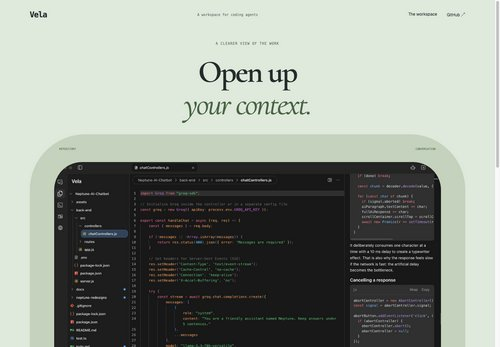
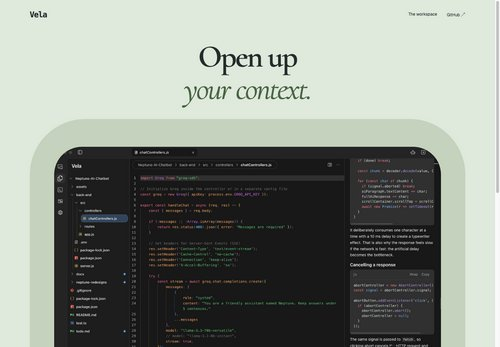
design: remove decorative metadata from release previews

diff --git a/design/vela-product/index.html b/design/vela-product/index.html
@@ -7,51 +7,48 @@
   <title>Vela — Your code. Your workspace.</title>
   <link rel="icon" href="assets/icon.png">
   <link rel="stylesheet" href="styles.css">
+  <link rel="stylesheet" href="release.css">
 </head>
 <body class="design-1">
   <div class="atmosphere" aria-hidden="true"><i></i><i></i><i></i><i></i></div>
   <header>
     <a class="brand" href="#" aria-label="Vela home"><img src="assets/icon.png" alt="" width="36" height="36"><span>Vela</span></a>
-    <span class="header-note">A workspace for coding agents</span>
     <a class="header-github" href="https://github.com/Tsohnle95/vela" target="_blank" rel="noopener">GitHub <span aria-hidden="true">↗</span></a>
   </header>
   <main>
     <section class="hero" aria-labelledby="headline">
-      <div class="eyebrow"><span></span><span id="eyebrow">Vela for macOS</span></div>
+      <div class="release-brand-art" aria-hidden="true"></div>
       <h1 id="headline">Your code.<br><em>Your workspace.</em></h1>
       <p class="description" id="description">Your editor, AI agents, terminal, and live diffs.<br>One desktop app. Powered by OpenCode.</p>
       <div class="actions">
         <a class="download" href="https://github.com/Tsohnle95/vela/releases" target="_blank" rel="noopener"><svg width="18" height="18" viewBox="0 0 24 24" fill="none" stroke="currentColor" stroke-width="1.7" aria-hidden="true"><path d="M12 3v12m-5-5 5 5 5-5M5 16v5h14v-5"/></svg><span>Download for macOS</span></a>
         <a class="source" href="https://github.com/Tsohnle95/vela" target="_blank" rel="noopener"><svg width="19" height="19" viewBox="0 0 24 24" fill="currentColor" aria-hidden="true"><path d="M12 2a10 10 0 0 0-3.16 19.49c.5.09.68-.22.68-.48v-1.87c-2.78.6-3.37-1.18-3.37-1.18-.46-1.16-1.11-1.47-1.11-1.47-.91-.62.07-.61.07-.61 1 .07 1.53 1.03 1.53 1.03.89 1.53 2.34 1.09 2.91.83.09-.65.35-1.09.64-1.34-2.22-.25-4.55-1.11-4.55-4.94 0-1.09.39-1.98 1.03-2.68-.1-.25-.45-1.27.1-2.65 0 0 .84-.27 2.75 1.03A9.6 9.6 0 0 1 12 6.82c.85 0 1.71.11 2.51.34 1.91-1.3 2.75-1.03 2.75-1.03.55 1.38.2 2.4.1 2.65.64.7 1.03 1.59 1.03 2.68 0 3.84-2.34 4.69-4.57 4.94.36.31.68.92.68 1.85v2.76c0 .27.18.58.69.48A10 10 0 0 0 12 2Z"/></svg><span>View on GitHub</span><span aria-hidden="true">↗</span></a>
       </div>
-      <p class="platform">macOS <span>·</span> OpenCode V2</p>
     </section>
     <section class="product" aria-label="Vela desktop app">
-      <div class="screen-meta"><span>YOUR WORKSPACE, IN VIEW</span><span>EDITOR / AGENT / TERMINAL</span></div>
       <div class="screen"><img src="assets/vela.png" alt="Vela showing the Neptune repository, JavaScript in the editor, and an OpenCode agent conversation side by side." width="1420" height="887" fetchpriority="high"></div>
-      <div class="screen-caption"><span>Code. Ask. Review. Run.</span><span>Everything in one window.</span></div>
     </section>
-    <section class="details" aria-label="Workspace features"><div><span>01</span><h2>Edit your code.</h2><p>Monaco, tabs, and autosave.</p></div><div><span>02</span><h2>Work with agents.</h2><p>OpenCode sessions, side by side.</p></div><div><span>03</span><h2>Review the changes.</h2><p>Live file changes and per-file diffs.</p></div></section>
+    <section class="details" aria-label="Workspace features"><div><h2>Edit your code.</h2><p>Monaco, tabs, and autosave.</p></div><div><h2>Work with agents.</h2><p>OpenCode sessions, side by side.</p></div><div><h2>Review the changes.</h2><p>Live file changes and per-file diffs.</p></div></section>
     <div class="product-information">
       <section class="capabilities" aria-labelledby="capabilities-title">
-        <div class="section-heading"><span class="section-label">01 / THE WORKSPACE</span><h2 id="capabilities-title">Your tools, in context.</h2><p>Open a repository and keep the files, conversation, and changes in the same window.</p></div>
+        <div class="section-heading"><h2 id="capabilities-title">Your tools, in context.</h2><p>Open a repository and keep the files, conversation, and changes in the same window.</p></div>
         <div class="capability-list">
-          <article><span class="feature-number">01</span><div><h3>An editor you can work in.</h3><p>Browse the file tree and edit with Monaco. Tabs and autosave keep your files close while you work with an agent.</p><div class="feature-tags"><span>Monaco editor</span><span>File explorer</span><span>Autosave</span></div></div></article>
-          <article><span class="feature-number">02</span><div><h3>Give your agent the context.</h3><p>Choose your model and agent, attach files, or reference workspace files with <code>@</code>. Follow streamed responses, reasoning, and tool calls. Queue a follow-up while the current task is running.</p><div class="feature-tags"><span>OpenCode V2</span><span>File attachments</span><span>Queued follow-ups</span></div></div></article>
-          <article><span class="feature-number">03</span><div><h3>Work on more than one task.</h3><p>Agent mode tiles up to eight sessions in one workspace. Each panel keeps its own conversation and context, so you can follow separate tasks side by side.</p><div class="feature-tags"><span>Up to 8 sessions</span><span>Independent context</span></div></div></article>
-          <article><span class="feature-number">04</span><div><h3>See what actually changed.</h3><p>Vela watches your workspace and lists files touched during the session. Review a per-file diff when starting contents are available. Other changes are marked as observed.</p><div class="feature-tags"><span>Live file changes</span><span>Per-file diffs</span></div></div></article>
+          <article><div><h3>An editor you can work in.</h3><p>Browse the file tree and edit with Monaco. Tabs and autosave keep your files close while you work with an agent.</p></div></article>
+          <article><div><h3>Give your agent the context.</h3><p>Choose your model and agent, attach files, or reference workspace files with <code>@</code>. Follow streamed responses, reasoning, and tool calls. Queue a follow-up while the current task is running.</p></div></article>
+          <article><div><h3>Work on more than one task.</h3><p>Agent mode tiles up to eight sessions in one workspace. Each panel keeps its own conversation and context, so you can follow separate tasks side by side.</p></div></article>
+          <article><div><h3>See what actually changed.</h3><p>Vela watches your workspace and lists files touched during the session. Review a per-file diff when starting contents are available. Other changes are marked as observed.</p></div></article>
         </div>
       </section>
       <section class="workflow" aria-labelledby="workflow-title">
-        <div class="section-heading"><span class="section-label">02 / THE WORKFLOW</span><h2 id="workflow-title">From folder to reviewed change.</h2></div>
-        <ol class="workflow-steps"><li><span>01</span><h3>Open your repository.</h3><p>Choose a folder. Browse the files and open what you’re working on in the editor.</p></li><li><span>02</span><h3>Work with OpenCode.</h3><p>Describe the change, add the relevant files, and follow the session beside your code.</p></li><li><span>03</span><h3>Review it. Run it.</h3><p>Check the changed files, edit the result, and run your project in the integrated terminal.</p></li></ol>
+        <div class="section-heading"><h2 id="workflow-title">From folder to reviewed change.</h2></div>
+        <ol class="workflow-steps"><li><h3>Open your repository.</h3><p>Choose a folder. Browse the files and open what you’re working on in the editor.</p></li><li><h3>Work with OpenCode.</h3><p>Describe the change, add the relevant files, and follow the session beside your code.</p></li><li><h3>Review it. Run it.</h3><p>Check the changed files, edit the result, and run your project in the integrated terminal.</p></li></ol>
       </section>
       <section class="connected-tools" aria-label="Terminal and mobile companion">
-        <article><span class="section-label">IN THE WORKSPACE</span><h3>A terminal, right here.</h3><p>Run commands in the current workspace with the integrated terminal. You can also switch an agent panel to the OpenCode TUI.</p></article>
-        <article><span class="section-label">AWAY FROM THE DESK</span><h3>The same sessions on your phone.</h3><p>Pair the mobile companion from <strong>Settings → Mobile Setup</strong>. Access your sessions while Vela remains open on your desktop.</p></article>
+        <article><h3>A terminal, right here.</h3><p>Run commands in the current workspace with the integrated terminal. You can also switch an agent panel to the OpenCode TUI.</p></article>
+        <article><h3>The same sessions on your phone.</h3><p>Pair the mobile companion from <strong>Settings → Mobile Setup</strong>. Access your sessions while Vela remains open on your desktop.</p></article>
       </section>
       <section class="getting-started" aria-labelledby="setup-title">
-        <div class="section-heading"><span class="section-label">03 / GET STARTED</span><h2 id="setup-title">Bring your repository.<br>Connect OpenCode.</h2><p>Vela runs agent sessions through OpenCode V2. Have <code>opencode</code> available on your PATH before starting a session.</p><a class="setup-link" href="https://github.com/Tsohnle95/vela#setup" target="_blank" rel="noopener">Read the setup guide <span aria-hidden="true">↗</span></a></div>
+        <div class="section-heading"><h2 id="setup-title">Bring your repository.<br>Connect OpenCode.</h2><p>Vela runs agent sessions through OpenCode V2. Have <code>opencode</code> available on your PATH before starting a session.</p><a class="setup-link" href="https://github.com/Tsohnle95/vela#setup" target="_blank" rel="noopener">Read the setup guide <span aria-hidden="true">↗</span></a></div>
         <div class="setup-panel"><div class="setup-panel-title">RUN FROM SOURCE <span>macOS recommended</span></div><pre><code>git clone https://github.com/Tsohnle95/vela.git
 cd vela
 npm install

diff --git a/design/vela-product/design-24/collection.js b/design/vela-product/design-24/collection.js
@@ -7,14 +7,17 @@
   selector.innerHTML = concepts.map((c, i) => `<option value="${i + 1}">${String(i + 1).padStart(2, '0')} — ${c.name}</option>`).join('');
   const requested = Number(new URLSearchParams(location.search).get('version'));
   let current = Number.isInteger(requested) && requested >= 1 && requested <= concepts.length ? requested : 1;
-  const header = () => `<header class="site-header"><a class="wordmark" href="../index.html?design=24" aria-label="Vela — original Source design">Vela</a><span class="header-caption">A workspace for coding agents</span><nav aria-label="Product navigation"><a href="#workspace">The workspace</a><a href="https://github.com/Tsohnle95/vela" target="_blank" rel="noopener">GitHub ↗</a></nav></header>`;
+  const header = () => `<header class="site-header"><a class="wordmark" href="../index.html?design=24" aria-label="Vela — original Source design">Vela</a><nav aria-label="Product navigation"><a href="#workspace">The workspace</a><a href="https://github.com/Tsohnle95/vela" target="_blank" rel="noopener">GitHub ↗</a></nav></header>`;
   function fillCollection() {
-    document.getElementById('collection-grid').innerHTML = concepts.map((c, i) => `<a class="collection-card" href="?version=${i + 1}" data-version="${i + 1}" ${current === i + 1 ? 'aria-current="page"' : ''}><small>${c.motif}</small><img class="collection-preview" src="previews/${String(i + 1).padStart(2, '0')}.jpg" loading="lazy" width="500" height="347" alt=""><h3>${c.name}</h3><p>${c.change}</p></a>`).join('');
+    document.getElementById('collection-grid').innerHTML = concepts.map((c, i) => `<a class="collection-card" href="?version=${i + 1}" data-version="${i + 1}" ${current === i + 1 ? 'aria-current="page"' : ''}><img class="collection-preview" src="previews/${String(i + 1).padStart(2, '0')}.jpg" loading="lazy" width="500" height="347" alt=""><h3>${c.name}</h3></a>`).join('');
   }
   function render(updateHistory = false, focusHeading = false) {
     const c = concepts[current - 1];
     document.body.className = `v${current}`;
-    site.innerHTML = `${header()}<main id="main" tabindex="-1">${c.body()}<section id="workspace-details" class="design-note" aria-label="About this interpretation"><p class="label">SOURCE / ${String(current).padStart(2, '0')}<br>${c.name}</p><details><summary>Design notes — the relationship to #24</summary><p><strong>Reading the original.</strong> ${c.source}</p><p><strong>New direction.</strong> ${c.change}</p><p>Local design exploration. Product images show Vela; diagrams and code headings are illustrative.</p></details></section><footer class="site-footer"><a class="wordmark" href="../index.html?design=24">Vela</a><span>Your code. Your workspace.</span><a href="https://github.com/Tsohnle95/vela#setup" target="_blank" rel="noopener">Setup guide ↗</a></footer></main>`;
+    site.innerHTML = `${header()}<main id="main" tabindex="-1">${c.body()}<footer class="site-footer"><a class="wordmark" href="../index.html?design=24">Vela</a><span>Your code. Your workspace.</span><a href="https://github.com/Tsohnle95/vela#setup" target="_blank" rel="noopener">Setup guide ↗</a></footer></main>`;
+    site.querySelectorAll('.anatomy-rail,.map-stations,.map-root,.patch-summary,.notebook-note,.proof-axis,.dock-waterline>span,.conversation-voices>div>span,.conversation-voices small,.equation-graphic span,.pillar span,.margin,.manual>aside>span,.invitation-seal>span,.declaration-end,.map-coordinate,.desk-inventory,.colophon-meta,.page-number,.corner,.garden-labels,.proof-top,.proof-side,.line-number,.spec-copy>span,.pavilion-base>span,.ledger-total>span,.focus-rails>aside>span:nth-child(2)').forEach(element => element.remove());
+    site.querySelectorAll('.anatomy-rail span,.map-stations span,.manual>aside a').forEach(element => { element.textContent = element.textContent.replace(/^\d+\s*[—/]\s*/, ''); });
+    site.querySelectorAll('.ledger-row>span,.assembly-diagram>div>span').forEach(element => element.remove());
     selector.value = String(current);
     document.title = `Vela — ${String(current).padStart(2, '0')} / ${c.name}`;
     const url = new URL(location.href);
@@ -59,7 +62,7 @@
     };
     site.querySelectorAll('[data-task]').forEach(button => button.setAttribute('aria-pressed', String(button === task)));
     document.getElementById('task-detail').textContent = descriptions[task.dataset.task];
-    site.querySelector('figcaption').textContent = descriptions[task.dataset.task];
+
   });
   window.addEventListener('popstate', () => {
     const value = Number(new URLSearchParams(location.search).get('version'));

diff --git a/design/vela-product/design-24/concepts.js b/design/vela-product/design-24/concepts.js
@@ -2,13 +2,13 @@
    composition. Shared product fragments keep facts and asset references stable. */
 (() => {
   const repo = 'https://github.com/Tsohnle95/vela';
-  const label = (text) => `<p class="label">${text}</p>`;
-  const actions = (text = 'Download for macOS') => `<div class="actions"><a class="primary" href="${repo}/releases" target="_blank" rel="noopener">${text} <span aria-hidden="true">↗</span></a><a class="secondary" href="${repo}" target="_blank" rel="noopener">View source <span aria-hidden="true">↗</span></a></div><p class="platform">macOS · OpenCode V2</p>`;
-  const shot = (caption = 'The editor. The agent. The same context.', cls = '') => `<figure id="workspace" class="product ${cls}"><div class="frame-label"><span>VELA / WORKSPACE</span><span>EDITOR + OPENCODE</span></div><img src="../assets/vela.png" width="1420" height="887" alt="Vela desktop: Neptune repository files, JavaScript editor, and an OpenCode agent conversation side by side."><figcaption>${caption}</figcaption></figure>`;
+  const label = () => '';
+  const actions = (text = 'Download for macOS') => `<div class="actions"><a class="primary" href="${repo}/releases" target="_blank" rel="noopener">${text} <span aria-hidden="true">↗</span></a><a class="secondary" href="${repo}" target="_blank" rel="noopener">View source <span aria-hidden="true">↗</span></a></div>`;
+  const shot = (_caption = '', cls = '') => `<figure id="workspace" class="product ${cls}"><img src="../assets/vela.png" width="1420" height="887" alt="Vela desktop: Neptune repository files, JavaScript editor, and an OpenCode agent conversation side by side."></figure>`;
   const intro = (heading = 'Build with<br> <em>context.</em>', text = 'Keep OpenCode beside your repository. Write, review, and run without leaving Vela.') => `<div class="intro"><h1>${heading}</h1><p class="lede">${text}</p>${actions()}</div>`;
-  const features = (cls = '') => `<section class="features ${cls}" aria-label="Workspace capabilities"><article><span>01 / EDIT</span><h2>Your files.<br> Your editor.</h2><p>Browse the repository and edit with Monaco, tabs, and autosave.</p></article><article><span>02 / ASK</span><h2>An agent.<br> In context.</h2><p>Work with OpenCode beside the files it changes.</p></article><article><span>03 / REVIEW</span><h2>Follow the work.<br> Review the diff.</h2><p>Watch workspace changes and inspect per-file diffs when starting contents are available.</p></article></section>`;
-  const note = (text) => `<p class="annotation">${text}</p>`;
-  const steps = () => `<ol class="steps"><li><span>01</span><div><h2>Open a repository.</h2><p>Your file tree, ready to explore.</p></div></li><li><span>02</span><div><h2>Work with OpenCode.</h2><p>Ask, attach files, and follow the session.</p></div></li><li><span>03</span><div><h2>Review. Edit. Run.</h2><p>Check the diff and use the integrated terminal.</p></div></li></ol>`;
+  const features = (cls = '') => `<section class="features ${cls}" aria-label="Workspace capabilities"><article><h2>Your files.<br> Your editor.</h2><p>Browse the repository and edit with Monaco, tabs, and autosave.</p></article><article><h2>An agent.<br> In context.</h2><p>Work with OpenCode beside the files it changes.</p></article><article><h2>Follow the work.<br> Review the diff.</h2><p>Watch workspace changes and inspect per-file diffs when starting contents are available.</p></article></section>`;
+  const note = () => '';
+  const steps = () => `<ol class="steps"><li><div><h2>Open a repository.</h2><p>Your file tree, ready to explore.</p></div></li><li><div><h2>Work with OpenCode.</h2><p>Ask, attach files, and follow the session.</p></div></li><li><div><h2>Review. Edit. Run.</h2><p>Check the diff and use the integrated terminal.</p></div></li></ol>`;
   window.sourceConcepts = [
     {
       name: 'Margin notes', motif: '01 / annotated manuscript',

diff --git a/design/vela-product/design-24/index.html b/design/vela-product/design-24/index.html
@@ -13,14 +13,13 @@
   <div id="site"></div>
   <aside class="review" aria-label="Design collection controls">
     <button id="previous" aria-label="Previous version">←</button>
-    <label for="version">Source /</label><select id="version"></select>
+    <label for="version" class="sr-only">Choose a design</label><select id="version"></select>
     <button id="next" aria-label="Next version">→</button>
     <button id="show-all" aria-expanded="false" aria-controls="collection">All 30</button>
     <a href="../index.html?design=24">Original ↗</a>
   </aside>
   <dialog id="collection" aria-labelledby="collection-title">
-    <div class="dialog-top"><div><p class="label">DESIGN 24 / THIRTY NEW DIRECTIONS</p><h2 id="collection-title">Source, reimagined.</h2></div><button id="close-collection" aria-label="Close collection">×</button></div>
-    <p class="collection-intro">A study of quiet grids, code typography, muted green, and the relationship between a repository and its agent. Choose a composition to explore.</p>
+    <div class="dialog-top"><div><h2 id="collection-title">Vela designs.</h2></div><button id="close-collection" aria-label="Close collection">×</button></div>
     <div id="collection-grid"></div>
   </dialog>
   <script src="concepts.js"></script>

diff --git a/design/vela-product/design-24/collection.css b/design/vela-product/design-24/collection.css
@@ -73,3 +73,12 @@
 .collection-preview{display:block;width:100%;height:auto;margin:16px 0;border:1px solid #e0e7da;border-radius:2px}
 
 @media(max-width:420px){#collection-grid{grid-template-columns:1fr}.collection-card{padding:18px}.collection-card[aria-current]{padding:17px}.collection-card h3{font-size:21px}.collection-card p{font-size:12px}.collection-card small{font-size:9px}}
+
+/* Release presentation: removed marginalia and annotations do not reserve space. */
+.manuscript{grid-template-columns:minmax(0,1fr);max-width:1000px;margin:auto}
+.margin-bottom,.margin-rule{display:none}
+.ledger-row{grid-template-columns:1.3fr 1fr}.ledger-row>p{grid-column:auto}.ledger-image{padding-left:0}
+.code-poem>div{gap:0}.poem-shot .product{margin-left:0}.code-poem h1{padding-left:0}.poetry-bottom{margin-left:0}
+.sr-only{position:absolute;width:1px;height:1px;padding:0;margin:-1px;overflow:hidden;clip:rect(0,0,0,0);white-space:nowrap;border:0}
+.review label.sr-only{display:block}
+@media(max-width:700px){.manuscript{grid-template-columns:minmax(0,1fr)}.ledger-row{grid-template-columns:1fr}.ledger-row>p{grid-column:1}.v1 main{padding-top:25px}.notebook>div{padding-bottom:30px}.anatomy-rail{margin-top:20px}.colophon-body{padding-top:15px}}

diff --git a/design/vela-product/release.css b/design/vela-product/release.css
@@ -1,0 +1,5 @@
+/* Preserve the feature layout after removing its decorative numbering gutter. */
+.design-12 .capability-list article{grid-template-columns:minmax(0,1fr)}
+.release-brand-art{display:none}
+.design-25 .release-brand-art{display:block;width:82px;height:82px;margin:0 auto 26px;clip-path:polygon(5% 10%,32% 0,51% 65%,72% 0,98% 10%,64% 100%,36% 100%);background:linear-gradient(105deg,#879e6d 0 47%,#486a50 48%)}
+@media(max-width:760px){.design-25 .release-brand-art{width:65px;height:65px;margin-bottom:20px}}

diff --git a/design/vela-product/design-24/README.md b/design/vela-product/design-24/README.md
@@ -7,8 +7,9 @@ remain available, including the existing borderless Design 24.
 
 Use the selector, previous/next buttons, or Left/Right keys outside interactive
 controls. **All 30** opens the directory; Escape closes it. Each interpretation
-has an expandable design note explaining the reading of the original and the
-composition that follows from it. Browser back/forward restores the version.
+uses release-style presentation, without eyebrow labels, marginal notes,
+numbering, screenshot captions, or design commentary. Browser back/forward
+restores the version.
 
 The reference was reviewed as a rendered page and in source: a fine 32px grid,
 borderless monospaced wordmark, very large proportional headline, green
@@ -52,3 +53,8 @@ Product images are the existing Vela screenshot. Code headings, diagrams,
 and the workflow diff are illustrative. External actions preserve the existing
 repository, releases, and setup destinations. No download availability,
 customer, performance, or benchmark claims are added.
+
+Presentation rule: show the product as a real release. Keep design rationale,
+reference analysis, specimen numbers, decorative microcopy, and review comments
+out of the rendered product pages. The collection directory contains only
+preview images and design names.

diff --git a/design/vela-product/design-24/QA.md b/design/vela-product/design-24/QA.md
@@ -7,6 +7,8 @@ Verified locally on October 23, 2026 under repository-supported Node 22.23.2.
   390, and 320 CSS pixels: 150 layouts, zero horizontal-overflow failures,
   zero offscreen headline/action/product failures, all product images decoded,
   one primary heading per version, and zero renderer errors.
+- Removed decorative eyebrow labels, marginal notes, numbering, screenshot
+  captions, and rendered design commentary across all 30 interpretations.
 - Reviewed raster contact sheets of all 30 desktop and all 30 mobile layouts.
 - Verified selector, previous/next wraparound, modal directory selection,
   Escape dismissal, arrow-key navigation, native select key ownership,
